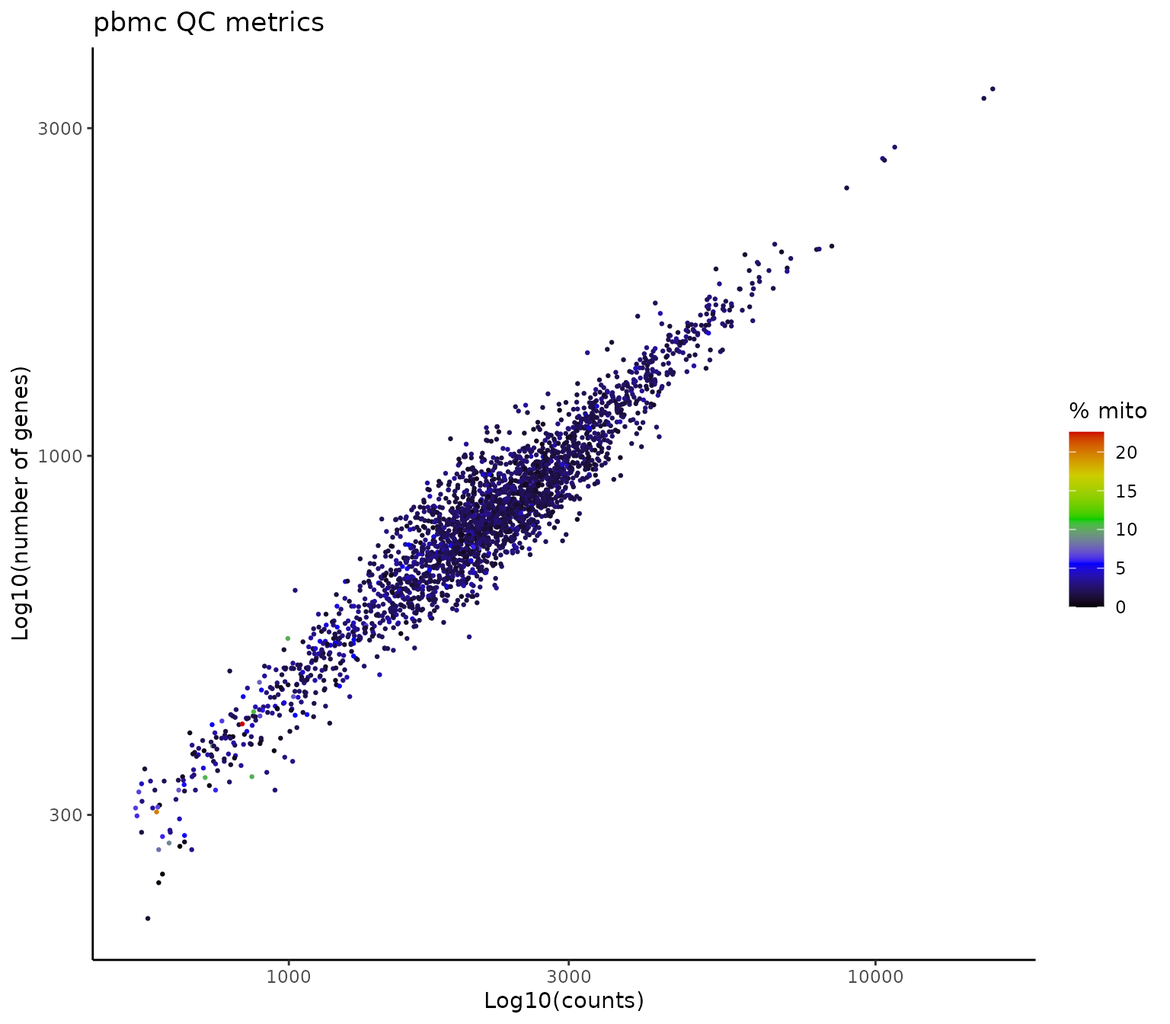
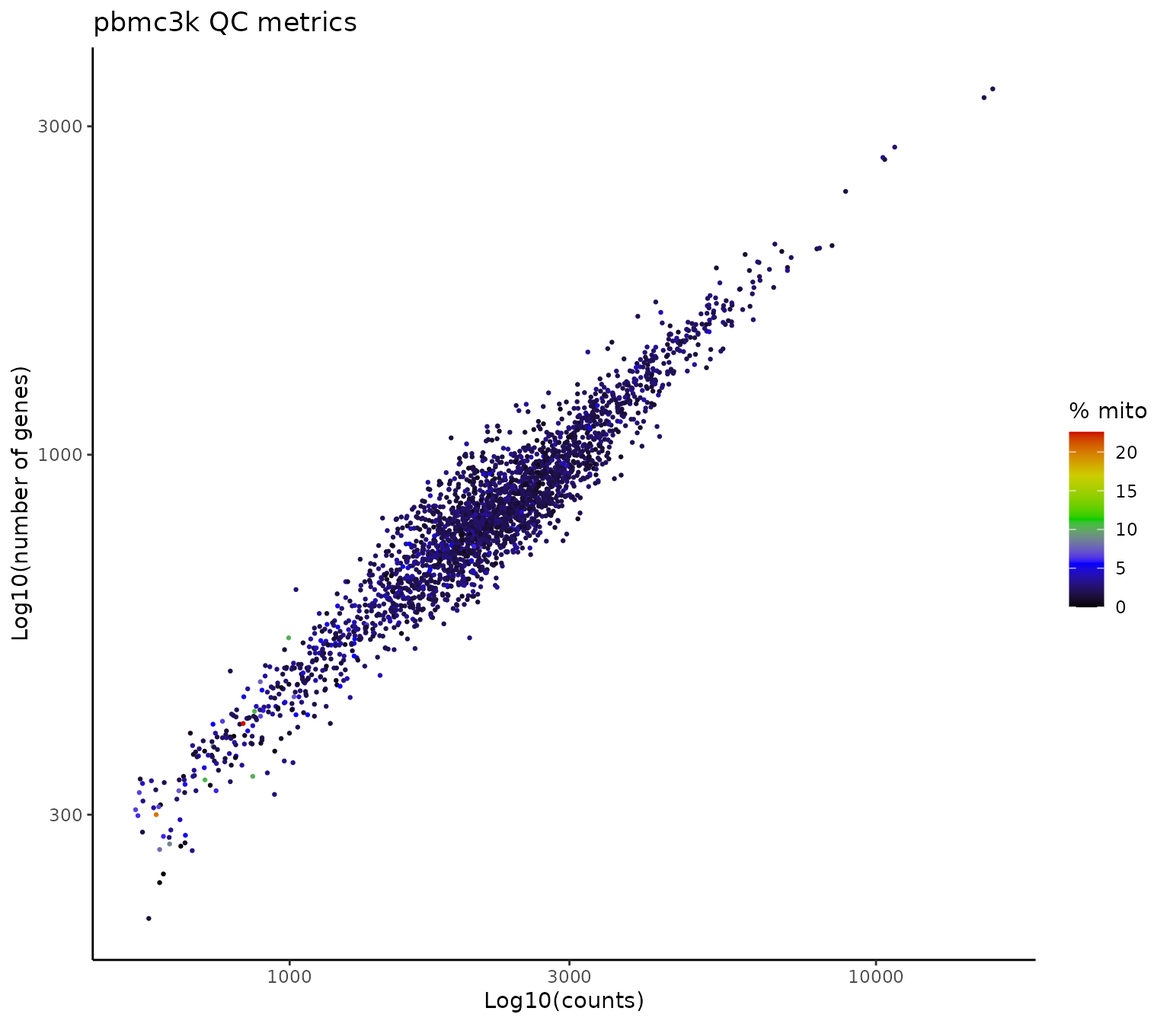
Deploying to gh-pages from @ Alexis-Varin/RightSeuratTools@49a8f704e3d8e158daaca0a54b2cf04fc4eb7c46 🚀

diff --git a/articles/RightSeuratTools.html b/articles/RightSeuratTools.html
@@ -128,9 +128,11 @@ which handles all data preparation for us, and check its contents:</p>
 <span><span class="co"># Checking the contents of the object</span></span>
 <span><span class="va">pbmc3k</span></span>
 <span><span class="fu"><a href="https://rdrr.io/r/base/colnames.html" class="external-link">colnames</a></span><span class="op">(</span><span class="va">pbmc3k</span><span class="op">@</span><span class="va">meta.data</span><span class="op">)</span></span></code></pre></div>
+<pre><code><span><span class="co">#&gt; Available datasets:</span></span>
+<span><span class="co">#&gt; <span style="color: #00BBBB;">"pbmc3k"</span>   a Seurat v4 object of 2700 cells by 13714 features</span></span></code></pre>
 <pre><code><span><span class="co">#&gt; An object of class Seurat </span></span>
-<span><span class="co">#&gt; 16634 features across 2700 samples within 1 assay </span></span>
-<span><span class="co">#&gt; Active assay: RNA (16634 features, 0 variable features)</span></span>
+<span><span class="co">#&gt; 13714 features across 2700 samples within 1 assay </span></span>
+<span><span class="co">#&gt; Active assay: RNA (13714 features, 0 variable features)</span></span>
 <span><span class="co">#&gt;  2 layers present: counts, data</span></span></code></pre>
 <pre><code><span><span class="co">#&gt; [1] "orig.ident"         "nCount_RNA"         "nFeature_RNA"      </span></span>
 <span><span class="co">#&gt; [4] "seurat_annotations"</span></span></code></pre>
@@ -144,16 +146,16 @@ the counts layer from the RNA assay. We will also remove all meta.data
 columns except for the ‘orig.ident’ metadata to truly start anew. <a href="https://alexis-varin.github.io/RightSeuratTools/reference/Right_DietSeurat.html">Right_DietSeurat</a>
 is highly customizable, check the documentation for more
 information:</p>
-<div class="sourceCode" id="cb7"><pre class="downlit sourceCode r">
+<div class="sourceCode" id="cb8"><pre class="downlit sourceCode r">
 <code class="sourceCode R"><span><span class="co"># Reducing the object to the counts layer and the 'orig.ident' metadata</span></span>
-<span><span class="va">pbmc</span> <span class="op">&lt;-</span> <span class="fu"><a href="../reference/Right_DietSeurat.html">Right_DietSeurat</a></span><span class="op">(</span><span class="va">pbmc3k</span>, idents <span class="op">=</span> <span class="st">"orig.ident"</span><span class="op">)</span></span>
+<span><span class="va">pbmc3k</span> <span class="op">&lt;-</span> <span class="fu"><a href="../reference/Right_DietSeurat.html">Right_DietSeurat</a></span><span class="op">(</span><span class="va">pbmc3k</span>, idents <span class="op">=</span> <span class="st">"orig.ident"</span><span class="op">)</span></span>
 <span></span>
 <span><span class="co"># Checking the contents of the object</span></span>
-<span><span class="va">pbmc</span></span>
-<span><span class="fu"><a href="https://rdrr.io/r/base/colnames.html" class="external-link">colnames</a></span><span class="op">(</span><span class="va">pbmc</span><span class="op">@</span><span class="va">meta.data</span><span class="op">)</span></span></code></pre></div>
+<span><span class="va">pbmc3k</span></span>
+<span><span class="fu"><a href="https://rdrr.io/r/base/colnames.html" class="external-link">colnames</a></span><span class="op">(</span><span class="va">pbmc3k</span><span class="op">@</span><span class="va">meta.data</span><span class="op">)</span></span></code></pre></div>
 <pre><code><span><span class="co">#&gt; An object of class Seurat </span></span>
-<span><span class="co">#&gt; 16634 features across 2700 samples within 1 assay </span></span>
-<span><span class="co">#&gt; Active assay: RNA (16634 features, 0 variable features)</span></span>
+<span><span class="co">#&gt; 13714 features across 2700 samples within 1 assay </span></span>
+<span><span class="co">#&gt; Active assay: RNA (13714 features, 0 variable features)</span></span>
 <span><span class="co">#&gt;  1 layer present: counts</span></span></code></pre>
 <pre><code><span><span class="co">#&gt; [1] "orig.ident"   "nCount_RNA"   "nFeature_RNA"</span></span></code></pre>
 </div>
@@ -166,15 +168,15 @@ information:</p>
 <p>We will now move on to preprocessing. We start by calculating the
 percentage of mitochondrial genes and plot these results alongside the
 number of genes (nFeature_RNA) and counts (nCount_RNA) per cell:</p>
-<div class="sourceCode" id="cb10"><pre class="downlit sourceCode r">
+<div class="sourceCode" id="cb11"><pre class="downlit sourceCode r">
 <code class="sourceCode R"><span><span class="co"># Calculate percentage of mitochondrial genes</span></span>
-<span><span class="va">pbmc</span><span class="op">[[</span><span class="st">"percent.mt"</span><span class="op">]</span><span class="op">]</span> <span class="op">&lt;-</span> <span class="fu"><a href="https://satijalab.org/seurat/reference/PercentageFeatureSet.html" class="external-link">PercentageFeatureSet</a></span><span class="op">(</span><span class="va">pbmc</span>, pattern <span class="op">=</span> <span class="st">"^MT-"</span><span class="op">)</span></span>
+<span><span class="va">pbmc3k</span><span class="op">[[</span><span class="st">"percent.mt"</span><span class="op">]</span><span class="op">]</span> <span class="op">&lt;-</span> <span class="fu"><a href="https://satijalab.org/seurat/reference/PercentageFeatureSet.html" class="external-link">PercentageFeatureSet</a></span><span class="op">(</span><span class="va">pbmc3k</span>, pattern <span class="op">=</span> <span class="st">"^MT-"</span><span class="op">)</span></span>
 <span></span>
 <span><span class="co"># Plot QC</span></span>
-<span><span class="fu"><a href="https://ggplot2.tidyverse.org/reference/ggplot.html" class="external-link">ggplot</a></span><span class="op">(</span><span class="va">pbmc</span><span class="op">@</span><span class="va">meta.data</span>, <span class="fu"><a href="https://ggplot2.tidyverse.org/reference/aes.html" class="external-link">aes</a></span><span class="op">(</span>x <span class="op">=</span> <span class="va">nCount_RNA</span>, y <span class="op">=</span> <span class="va">nFeature_RNA</span>, col <span class="op">=</span> <span class="va">percent.mt</span><span class="op">)</span><span class="op">)</span> <span class="op">+</span> </span>
+<span><span class="fu"><a href="https://ggplot2.tidyverse.org/reference/ggplot.html" class="external-link">ggplot</a></span><span class="op">(</span><span class="va">pbmc3k</span><span class="op">@</span><span class="va">meta.data</span>, <span class="fu"><a href="https://ggplot2.tidyverse.org/reference/aes.html" class="external-link">aes</a></span><span class="op">(</span>x <span class="op">=</span> <span class="va">nCount_RNA</span>, y <span class="op">=</span> <span class="va">nFeature_RNA</span>, col <span class="op">=</span> <span class="va">percent.mt</span><span class="op">)</span><span class="op">)</span> <span class="op">+</span> </span>
 <span>  <span class="fu"><a href="https://ggplot2.tidyverse.org/reference/geom_point.html" class="external-link">geom_point</a></span><span class="op">(</span>size<span class="op">=</span><span class="fl">0.5</span><span class="op">)</span> <span class="op">+</span> </span>
 <span>  <span class="fu"><a href="https://ggplot2.tidyverse.org/reference/scale_gradient.html" class="external-link">scale_color_gradientn</a></span><span class="op">(</span>colors<span class="op">=</span><span class="fu"><a href="https://rdrr.io/r/base/c.html" class="external-link">c</a></span><span class="op">(</span><span class="st">"black"</span>,<span class="st">"blue"</span>,<span class="st">"green3"</span>,<span class="st">"yellow3"</span>,<span class="st">"red3"</span><span class="op">)</span><span class="op">)</span> <span class="op">+</span></span>
-<span>  <span class="fu"><a href="https://ggplot2.tidyverse.org/reference/labs.html" class="external-link">ggtitle</a></span><span class="op">(</span><span class="st">"pbmc QC metrics"</span><span class="op">)</span> <span class="op">+</span></span>
+<span>  <span class="fu"><a href="https://ggplot2.tidyverse.org/reference/labs.html" class="external-link">ggtitle</a></span><span class="op">(</span><span class="st">"pbmc3k QC metrics"</span><span class="op">)</span> <span class="op">+</span></span>
 <span>  <span class="fu"><a href="https://ggplot2.tidyverse.org/reference/labs.html" class="external-link">labs</a></span><span class="op">(</span>x <span class="op">=</span> <span class="st">"Log10(counts)"</span>, y <span class="op">=</span> <span class="st">"Log10(number of genes)"</span>, col <span class="op">=</span> <span class="st">"% mito"</span><span class="op">)</span> <span class="op">+</span></span>
 <span>  <span class="fu"><a href="https://ggplot2.tidyverse.org/reference/scale_continuous.html" class="external-link">scale_y_log10</a></span><span class="op">(</span><span class="op">)</span> <span class="op">+</span></span>
 <span>  <span class="fu"><a href="https://ggplot2.tidyverse.org/reference/scale_continuous.html" class="external-link">scale_x_log10</a></span><span class="op">(</span><span class="op">)</span> <span class="op">+</span></span>
@@ -187,17 +189,17 @@ number of genes (nFeature_RNA) and counts (nCount_RNA) per cell:</p>
 <p>Based on the plot above, we will filter out cells with more than 10%
 mitochondrial genes as well as cells with less than 400 or more than
 2500 genes:</p>
-<div class="sourceCode" id="cb11"><pre class="downlit sourceCode r">
+<div class="sourceCode" id="cb12"><pre class="downlit sourceCode r">
 <code class="sourceCode R"><span><span class="co"># Filter cells</span></span>
-<span><span class="va">pbmc</span> <span class="op">&lt;-</span> <span class="fu"><a href="https://rdrr.io/r/base/subset.html" class="external-link">subset</a></span><span class="op">(</span><span class="va">pbmc</span>, subset <span class="op">=</span> <span class="va">nFeature_RNA</span> <span class="op">&gt;</span> <span class="fl">400</span> <span class="op">&amp;</span></span>
+<span><span class="va">pbmc3k</span> <span class="op">&lt;-</span> <span class="fu"><a href="https://rdrr.io/r/base/subset.html" class="external-link">subset</a></span><span class="op">(</span><span class="va">pbmc3k</span>, subset <span class="op">=</span> <span class="va">nFeature_RNA</span> <span class="op">&gt;</span> <span class="fl">400</span> <span class="op">&amp;</span></span>
 <span>                              <span class="va">nFeature_RNA</span> <span class="op">&lt;</span> <span class="fl">2500</span> <span class="op">&amp;</span></span>
 <span>                              <span class="va">percent.mt</span> <span class="op">&lt;</span> <span class="fl">10</span><span class="op">)</span></span>
 <span></span>
 <span><span class="co"># Checking the contents of the object</span></span>
-<span><span class="va">pbmc</span></span></code></pre></div>
+<span><span class="va">pbmc3k</span></span></code></pre></div>
 <pre><code><span><span class="co">#&gt; An object of class Seurat </span></span>
-<span><span class="co">#&gt; 16634 features across 2595 samples within 1 assay </span></span>
-<span><span class="co">#&gt; Active assay: RNA (16634 features, 0 variable features)</span></span>
+<span><span class="co">#&gt; 13714 features across 2595 samples within 1 assay </span></span>
+<span><span class="co">#&gt; Active assay: RNA (13714 features, 0 variable features)</span></span>
 <span><span class="co">#&gt;  1 layer present: counts</span></span></code></pre>
 </div>
 <div class="section level3">
@@ -207,15 +209,15 @@ mitochondrial genes as well as cells with less than 400 or more than
 step, which is normalizing, scaling the data and identifying highly
 variable genes. For convenience, we use the same parameters as in the
 <code>Seurat</code> tutorial:</p>
-<div class="sourceCode" id="cb13"><pre class="downlit sourceCode r">
+<div class="sourceCode" id="cb14"><pre class="downlit sourceCode r">
 <code class="sourceCode R"><span><span class="co"># Normalizing the data with default parameters</span></span>
-<span><span class="va">pbmc</span> <span class="op">&lt;-</span> <span class="fu"><a href="https://satijalab.org/seurat/reference/NormalizeData.html" class="external-link">NormalizeData</a></span><span class="op">(</span><span class="va">pbmc</span><span class="op">)</span></span>
+<span><span class="va">pbmc3k</span> <span class="op">&lt;-</span> <span class="fu"><a href="https://satijalab.org/seurat/reference/NormalizeData.html" class="external-link">NormalizeData</a></span><span class="op">(</span><span class="va">pbmc3k</span><span class="op">)</span></span>
 <span></span>
 <span><span class="co"># Find highly variable genes with default parameters</span></span>
-<span><span class="va">pbmc</span> <span class="op">&lt;-</span> <span class="fu"><a href="https://satijalab.org/seurat/reference/FindVariableFeatures.html" class="external-link">FindVariableFeatures</a></span><span class="op">(</span><span class="va">pbmc</span><span class="op">)</span></span>
+<span><span class="va">pbmc3k</span> <span class="op">&lt;-</span> <span class="fu"><a href="https://satijalab.org/seurat/reference/FindVariableFeatures.html" class="external-link">FindVariableFeatures</a></span><span class="op">(</span><span class="va">pbmc3k</span><span class="op">)</span></span>
 <span></span>
 <span><span class="co"># Scaling all genes, by default it only scales the variable features</span></span>
-<span><span class="va">pbmc</span> <span class="op">&lt;-</span> <span class="fu"><a href="https://satijalab.org/seurat/reference/ScaleData.html" class="external-link">ScaleData</a></span><span class="op">(</span><span class="va">pbmc</span>, features <span class="op">=</span> <span class="fu"><a href="https://rdrr.io/r/base/colnames.html" class="external-link">rownames</a></span><span class="op">(</span><span class="va">pbmc</span><span class="op">)</span><span class="op">)</span></span></code></pre></div>
+<span><span class="va">pbmc3k</span> <span class="op">&lt;-</span> <span class="fu"><a href="https://satijalab.org/seurat/reference/ScaleData.html" class="external-link">ScaleData</a></span><span class="op">(</span><span class="va">pbmc3k</span>, features <span class="op">=</span> <span class="fu"><a href="https://rdrr.io/r/base/colnames.html" class="external-link">rownames</a></span><span class="op">(</span><span class="va">pbmc3k</span><span class="op">)</span><span class="op">)</span></span></code></pre></div>
 </div>
 <div class="section level3">
 <h3 id="dimensionality-reduction">Dimensionality reduction<a class="anchor" aria-label="anchor" href="#dimensionality-reduction"></a>
@@ -223,21 +225,21 @@ variable genes. For convenience, we use the same parameters as in the
 <p>Next, we will perform dimensionality reduction and unsupervised
 clustering. We again use the same parameters as in the
 <code>Seurat</code> tutorial:</p>
-<div class="sourceCode" id="cb14"><pre class="downlit sourceCode r">
+<div class="sourceCode" id="cb15"><pre class="downlit sourceCode r">
 <code class="sourceCode R"><span><span class="co"># Perform PCA</span></span>
-<span><span class="va">pbmc</span> <span class="op">&lt;-</span> <span class="fu"><a href="https://satijalab.org/seurat/reference/RunPCA.html" class="external-link">RunPCA</a></span><span class="op">(</span><span class="va">pbmc</span><span class="op">)</span></span>
+<span><span class="va">pbmc3k</span> <span class="op">&lt;-</span> <span class="fu"><a href="https://satijalab.org/seurat/reference/RunPCA.html" class="external-link">RunPCA</a></span><span class="op">(</span><span class="va">pbmc3k</span><span class="op">)</span></span>
 <span></span>
 <span><span class="co"># Clustering</span></span>
-<span><span class="va">pbmc</span> <span class="op">&lt;-</span> <span class="fu"><a href="https://satijalab.org/seurat/reference/FindNeighbors.html" class="external-link">FindNeighbors</a></span><span class="op">(</span><span class="va">pbmc</span>, dims <span class="op">=</span> <span class="fl">1</span><span class="op">:</span><span class="fl">10</span><span class="op">)</span></span>
-<span><span class="va">pbmc</span> <span class="op">&lt;-</span> <span class="fu"><a href="https://satijalab.org/seurat/reference/FindClusters.html" class="external-link">FindClusters</a></span><span class="op">(</span><span class="va">pbmc</span>, resolution <span class="op">=</span> <span class="fl">0.5</span><span class="op">)</span></span>
+<span><span class="va">pbmc3k</span> <span class="op">&lt;-</span> <span class="fu"><a href="https://satijalab.org/seurat/reference/FindNeighbors.html" class="external-link">FindNeighbors</a></span><span class="op">(</span><span class="va">pbmc3k</span>, dims <span class="op">=</span> <span class="fl">1</span><span class="op">:</span><span class="fl">10</span><span class="op">)</span></span>
+<span><span class="va">pbmc3k</span> <span class="op">&lt;-</span> <span class="fu"><a href="https://satijalab.org/seurat/reference/FindClusters.html" class="external-link">FindClusters</a></span><span class="op">(</span><span class="va">pbmc3k</span>, resolution <span class="op">=</span> <span class="fl">0.5</span><span class="op">)</span></span>
 <span></span>
 <span><span class="co"># UMAP</span></span>
-<span><span class="va">pbmc</span> <span class="op">&lt;-</span> <span class="fu"><a href="https://satijalab.org/seurat/reference/RunUMAP.html" class="external-link">RunUMAP</a></span><span class="op">(</span><span class="va">pbmc</span>, dims <span class="op">=</span> <span class="fl">1</span><span class="op">:</span><span class="fl">10</span><span class="op">)</span></span></code></pre></div>
+<span><span class="va">pbmc3k</span> <span class="op">&lt;-</span> <span class="fu"><a href="https://satijalab.org/seurat/reference/RunUMAP.html" class="external-link">RunUMAP</a></span><span class="op">(</span><span class="va">pbmc3k</span>, dims <span class="op">=</span> <span class="fl">1</span><span class="op">:</span><span class="fl">10</span><span class="op">)</span></span></code></pre></div>
 <p>Finally, we will plot the UMAP, which concludes the preprocessing
 steps:</p>
-<div class="sourceCode" id="cb15"><pre class="downlit sourceCode r">
+<div class="sourceCode" id="cb16"><pre class="downlit sourceCode r">
 <code class="sourceCode R"><span><span class="co"># Plot UMAP</span></span>
-<span><span class="fu"><a href="https://satijalab.org/seurat/reference/DimPlot.html" class="external-link">DimPlot</a></span><span class="op">(</span><span class="va">pbmc</span>, reduction <span class="op">=</span> <span class="st">"umap"</span>, pt.size <span class="op">=</span> <span class="fl">0.5</span><span class="op">)</span></span></code></pre></div>
+<span><span class="fu"><a href="https://satijalab.org/seurat/reference/DimPlot.html" class="external-link">DimPlot</a></span><span class="op">(</span><span class="va">pbmc3k</span><span class="op">)</span></span></code></pre></div>
 <p><img src="RightSeuratTools_files/figure-html/umap-1.png" width="768" style="display: block; margin: auto;"></p>
 <p>Interestingly, compared to the <code>Seurat</code> tutorial, we are
 missing the platelet cluster, which is likely due to the fact that we
@@ -269,16 +271,13 @@ mitochondrial, ribosomal and non-coding genes excluded, in order to
 maximize the chances of finding canonical markers in an unsupervised
 manner. It also provides many more parameters which can be used to
 tailor the function to your specific needs:</p>
-<div class="sourceCode" id="cb16"><pre class="downlit sourceCode r">
-<code class="sourceCode R"><span><span class="co"># Find markers</span></span>
-<span><span class="va">annotation.markers</span> <span class="op">&lt;-</span> <span class="fu"><a href="../reference/Find_Annotation_Markers.html">Find_Annotation_Markers</a></span><span class="op">(</span><span class="va">pbmc</span><span class="op">)</span></span>
+<div class="sourceCode" id="cb17"><pre class="downlit sourceCode r">
+<code class="sourceCode R"><span><span class="co"># Top 5 markers for each cluster, we will name each marker with cluster identity</span></span>
+<span><span class="va">annotation.markers</span> <span class="op">&lt;-</span> <span class="fu"><a href="../reference/Find_Annotation_Markers.html">Find_Annotation_Markers</a></span><span class="op">(</span><span class="va">pbmc3k</span>,</span>
+<span>                                              name.features <span class="op">=</span> <span class="cn">TRUE</span><span class="op">)</span></span>
 <span></span>
-<span><span class="co"># Display markers for each cluster, only for visualization in the vignette</span></span>
-<span><span class="va">j</span> <span class="op">=</span> <span class="fl">1</span></span>
-<span><span class="kw">for</span> <span class="op">(</span><span class="va">i</span> <span class="kw">in</span> <span class="fl">1</span><span class="op">:</span><span class="fu"><a href="https://rdrr.io/r/base/length.html" class="external-link">length</a></span><span class="op">(</span><span class="fu"><a href="https://rdrr.io/r/base/levels.html" class="external-link">levels</a></span><span class="op">(</span><span class="fu"><a href="https://mojaveazure.github.io/seurat-object/reference/Idents.html" class="external-link">Idents</a></span><span class="op">(</span><span class="va">pbmc</span><span class="op">)</span><span class="op">)</span><span class="op">)</span><span class="op">)</span> <span class="op">{</span></span>
-<span>  <span class="fu"><a href="https://rdrr.io/r/base/cat.html" class="external-link">cat</a></span><span class="op">(</span><span class="st">"Cluster"</span>, <span class="va">i</span><span class="op">-</span><span class="fl">1</span>, <span class="st">":"</span>, <span class="va">annotation.markers</span><span class="op">[</span><span class="va">j</span><span class="op">:</span><span class="op">(</span><span class="va">j</span><span class="op">+</span><span class="fl">4</span><span class="op">)</span><span class="op">]</span>,<span class="st">"\n"</span><span class="op">)</span></span>
-<span>  <span class="va">j</span> <span class="op">=</span> <span class="va">j</span> <span class="op">+</span> <span class="fl">5</span></span>
-<span><span class="op">}</span></span></code></pre></div>
+<span><span class="co"># Display markers for each cluster</span></span>
+<span><span class="va">annotation.markers</span></span></code></pre></div>
 <pre><code><span><span class="co">#&gt; Finding markers for cluster 0 against all other clusters</span></span>
 <span><span class="co">#&gt; Finding markers for cluster 1 against all other clusters</span></span>
 <span><span class="co">#&gt; Finding markers for cluster 2 against all other clusters</span></span>
@@ -287,30 +286,29 @@ tailor the function to your specific needs:</p>
 <span><span class="co">#&gt; Finding markers for cluster 5 against all other clusters</span></span>
 <span><span class="co">#&gt; Finding markers for cluster 6 against all other clusters</span></span>
 <span><span class="co">#&gt; Finding markers for cluster 7 against all other clusters</span></span></code></pre>
-<pre><code><span><span class="co">#&gt; Cluster 0 : CCR7 LEF1 MAL PIK3IP1 TCF7 </span></span>
-<span><span class="co">#&gt; Cluster 1 : FOLR3 S100A12 S100A8 S100A9 CD14 </span></span>
-<span><span class="co">#&gt; Cluster 2 : AQP3 CD40LG CD2 TRAT1 TRADD </span></span>
-<span><span class="co">#&gt; Cluster 3 : VPREB3 CD79A TCL1A FCRLA FCER2 </span></span>
-<span><span class="co">#&gt; Cluster 4 : GZMK GZMH CCL5 CD8A KLRG1 </span></span>
-<span><span class="co">#&gt; Cluster 5 : CKB CDKN1C MS4A4A HES4 BATF3 </span></span>
-<span><span class="co">#&gt; Cluster 6 : AKR1C3 GNLY GZMB SH2D1B SPON2 </span></span>
-<span><span class="co">#&gt; Cluster 7 : SERPINF1 FCER1A CLIC2 CLEC10A ENHO</span></span></code></pre>
+<pre><code><span><span class="co">#&gt;  [1] "CCR7"     "LEF1"     "MAL"      "PIK3IP1"  "TCF7"     "FOLR3"   </span></span>
+<span><span class="co">#&gt;  [7] "S100A12"  "S100A8"   "S100A9"   "CD14"     "AQP3"     "CD40LG"  </span></span>
+<span><span class="co">#&gt; [13] "CORO1B"   "CD2"      "TRAT1"    "VPREB3"   "CD79A"    "TCL1A"   </span></span>
+<span><span class="co">#&gt; [19] "FCRLA"    "FCER2"    "GZMK"     "GZMH"     "CCL5"     "CD8A"    </span></span>
+<span><span class="co">#&gt; [25] "KLRG1"    "CKB"      "CDKN1C"   "MS4A4A"   "HES4"     "BATF3"   </span></span>
+<span><span class="co">#&gt; [31] "AKR1C3"   "GNLY"     "GZMB"     "SH2D1B"   "SPON2"    "SERPINF1"</span></span>
+<span><span class="co">#&gt; [37] "FCER1A"   "CLIC2"    "ENHO"     "CLEC10A"</span></span></code></pre>
 <p>These markers may then be directly used for plotting. Since the
 <code>Seurat</code> tutorial uses <a href="https://satijalab.org/seurat/reference/doheatmap" class="external-link">DoHeatmap</a>,
 we will compare it to its equivalent in <code>RightSeuratTools</code>,
 <a href="https://alexis-varin.github.io/RightSeuratTools/reference/Cell_Heatmap.html">Cell_Heatmap</a>,
 which is reworked using <code>ComplexHeatmap</code> instead of
 <code>ggplot2</code>:</p>
-<div class="sourceCode" id="cb19"><pre class="downlit sourceCode r">
-<code class="sourceCode R"><span><span class="fu"><a href="../reference/Cell_Heatmap.html">Cell_Heatmap</a></span><span class="op">(</span><span class="va">pbmc</span>,</span>
+<div class="sourceCode" id="cb20"><pre class="downlit sourceCode r">
+<code class="sourceCode R"><span><span class="fu"><a href="../reference/Cell_Heatmap.html">Cell_Heatmap</a></span><span class="op">(</span><span class="va">pbmc3k</span>,</span>
 <span>             features <span class="op">=</span> <span class="va">annotation.markers</span>,</span>
 <span>             cluster.features <span class="op">=</span> <span class="cn">FALSE</span>,</span>
 <span>             show.idents.legend <span class="op">=</span> <span class="cn">FALSE</span><span class="op">)</span></span></code></pre></div>
 <p><img src="RightSeuratTools_files/figure-html/heatmap-1.png" width="768" style="display: block; margin: auto;"></p>
 <p>Let’s compare it to <code>Seurat</code>’s default heatmap
 function:</p>
-<div class="sourceCode" id="cb20"><pre class="downlit sourceCode r">
-<code class="sourceCode R"><span><span class="fu"><a href="https://satijalab.org/seurat/reference/DoHeatmap.html" class="external-link">DoHeatmap</a></span><span class="op">(</span><span class="va">pbmc</span>,</span>
+<div class="sourceCode" id="cb21"><pre class="downlit sourceCode r">
+<code class="sourceCode R"><span><span class="fu"><a href="https://satijalab.org/seurat/reference/DoHeatmap.html" class="external-link">DoHeatmap</a></span><span class="op">(</span><span class="va">pbmc3k</span>,</span>
 <span>          features <span class="op">=</span> <span class="va">annotation.markers</span><span class="op">)</span> <span class="op">+</span> </span>
 <span>  <span class="fu"><a href="https://satijalab.org/seurat/reference/SeuratTheme.html" class="external-link">NoLegend</a></span><span class="op">(</span><span class="op">)</span></span></code></pre></div>
 <p><img src="RightSeuratTools_files/figure-html/doheatmap-1.png" width="768" style="display: block; margin: auto;"></p>
@@ -325,19 +323,19 @@ identities by another metadata…</p>
 </h3>
 <p>We will now annotate each cluster with its corresponding cell type
 and display the UMAP:</p>
-<div class="sourceCode" id="cb21"><pre class="downlit sourceCode r">
+<div class="sourceCode" id="cb22"><pre class="downlit sourceCode r">
 <code class="sourceCode R"><span><span class="co"># Annotate clusters</span></span>
 <span><span class="va">new.cluster.ids</span> <span class="op">&lt;-</span> <span class="fu"><a href="https://rdrr.io/r/base/c.html" class="external-link">c</a></span><span class="op">(</span><span class="st">"Naive CD4 T"</span>, <span class="st">"CD14+ Mono"</span>, <span class="st">"Memory CD4 T"</span>,</span>
 <span>                     <span class="st">"B"</span>, <span class="st">"CD8 T"</span>, <span class="st">"FCGR3A+ Mono"</span>, <span class="st">"NK"</span>, <span class="st">"DC"</span><span class="op">)</span></span>
 <span></span>
-<span><span class="fu"><a href="https://rdrr.io/r/base/names.html" class="external-link">names</a></span><span class="op">(</span><span class="va">new.cluster.ids</span><span class="op">)</span> <span class="op">&lt;-</span> <span class="fu"><a href="https://rdrr.io/r/base/levels.html" class="external-link">levels</a></span><span class="op">(</span><span class="va">pbmc</span><span class="op">)</span></span>
-<span><span class="va">pbmc</span> <span class="op">&lt;-</span> <span class="fu"><a href="https://mojaveazure.github.io/seurat-object/reference/Idents.html" class="external-link">RenameIdents</a></span><span class="op">(</span><span class="va">pbmc</span>, <span class="va">new.cluster.ids</span><span class="op">)</span></span>
+<span><span class="fu"><a href="https://rdrr.io/r/base/names.html" class="external-link">names</a></span><span class="op">(</span><span class="va">new.cluster.ids</span><span class="op">)</span> <span class="op">&lt;-</span> <span class="fu"><a href="https://rdrr.io/r/base/levels.html" class="external-link">levels</a></span><span class="op">(</span><span class="va">pbmc3k</span><span class="op">)</span></span>
+<span><span class="va">pbmc3k</span> <span class="op">&lt;-</span> <span class="fu"><a href="https://mojaveazure.github.io/seurat-object/reference/Idents.html" class="external-link">RenameIdents</a></span><span class="op">(</span><span class="va">pbmc3k</span>, <span class="va">new.cluster.ids</span><span class="op">)</span></span>
 <span></span>
 <span><span class="co"># Add metadata to Seurat object</span></span>
-<span><span class="va">pbmc</span><span class="op">@</span><span class="va">meta.data</span><span class="op">$</span><span class="va">named_clusters</span> <span class="op">&lt;-</span> <span class="va">pbmc</span><span class="op">@</span><span class="va">active.ident</span></span>
+<span><span class="va">pbmc3k</span><span class="op">@</span><span class="va">meta.data</span><span class="op">$</span><span class="va">named_clusters</span> <span class="op">&lt;-</span> <span class="va">pbmc3k</span><span class="op">@</span><span class="va">active.ident</span></span>
 <span></span>
 <span><span class="co"># Plot UMAP with cell types</span></span>
-<span><span class="fu"><a href="https://satijalab.org/seurat/reference/DimPlot.html" class="external-link">DimPlot</a></span><span class="op">(</span><span class="va">pbmc</span>, reduction <span class="op">=</span> <span class="st">"umap"</span>, label <span class="op">=</span> <span class="cn">TRUE</span>, pt.size <span class="op">=</span> <span class="fl">0.5</span><span class="op">)</span> <span class="op">+</span></span>
+<span><span class="fu"><a href="https://satijalab.org/seurat/reference/DimPlot.html" class="external-link">DimPlot</a></span><span class="op">(</span><span class="va">pbmc3k</span>, reduction <span class="op">=</span> <span class="st">"umap"</span>, label <span class="op">=</span> <span class="cn">TRUE</span>, pt.size <span class="op">=</span> <span class="fl">0.5</span><span class="op">)</span> <span class="op">+</span></span>
 <span>  <span class="fu"><a href="https://satijalab.org/seurat/reference/SeuratTheme.html" class="external-link">NoLegend</a></span><span class="op">(</span><span class="op">)</span></span></code></pre></div>
 <p><img src="RightSeuratTools_files/figure-html/annotation-1.png" width="768" style="display: block; margin: auto;"></p>
 </div>
@@ -352,8 +350,8 @@ introduces <a href="https://alexis-varin.github.io/RightSeuratTools/reference/Ba
 which automates cell proportion and conveniently displays a bar plot,
 with the possibility to group and/or split based on other metadata, and
 many other parameters:</p>
-<div class="sourceCode" id="cb22"><pre class="downlit sourceCode r">
-<code class="sourceCode R"><span><span class="fu"><a href="../reference/Barplot_Cell_Proportion.html">Barplot_Cell_Proportion</a></span><span class="op">(</span><span class="va">pbmc</span>,</span>
+<div class="sourceCode" id="cb23"><pre class="downlit sourceCode r">
+<code class="sourceCode R"><span><span class="fu"><a href="../reference/Barplot_Cell_Proportion.html">Barplot_Cell_Proportion</a></span><span class="op">(</span><span class="va">pbmc3k</span>,</span>
 <span>                        percent <span class="op">=</span> <span class="cn">FALSE</span><span class="op">)</span></span></code></pre></div>
 <p><img src="RightSeuratTools_files/figure-html/proportion-1.png" width="576" style="display: block; margin: auto;"></p>
 </div>
@@ -367,10 +365,10 @@ and <a href="https://alexis-varin.github.io/RightSeuratTools/reference/Grid_VlnP
 which is a stacked version of <a href="https://satijalab.org/seurat/reference/vlnplot" class="external-link">VlnPlot</a> in a
 square grid, both also offering many more options than their
 <code>Seurat</code> counterparts:</p>
-<div class="sourceCode" id="cb23"><pre class="downlit sourceCode r">
+<div class="sourceCode" id="cb24"><pre class="downlit sourceCode r">
 <code class="sourceCode R"><span><span class="co"># We will disable some parameters to be as close as possible from Seurat's DotPlot</span></span>
 <span><span class="co"># Due to the number of features, we will also lower dots size and flip the axis</span></span>
-<span><span class="fu"><a href="../reference/DotPlot_Heatmap.html">DotPlot_Heatmap</a></span><span class="op">(</span><span class="va">pbmc</span>,</span>
+<span><span class="fu"><a href="../reference/DotPlot_Heatmap.html">DotPlot_Heatmap</a></span><span class="op">(</span><span class="va">pbmc3k</span>,</span>
 <span>                features <span class="op">=</span> <span class="va">annotation.markers</span>,</span>
 <span>                dots.size <span class="op">=</span> <span class="fl">2</span>,</span>
 <span>                cluster.features <span class="op">=</span> <span class="cn">FALSE</span>,</span>
@@ -378,15 +376,16 @@ square grid, both also offering many more options than their
 <span>                rotate.axis <span class="op">=</span> <span class="cn">TRUE</span><span class="op">)</span></span></code></pre></div>
 <p><img src="RightSeuratTools_files/figure-html/dotplot-1.png" width="768" style="display: block; margin: auto;"></p>
 <p>Comparing it to <code>Seurat</code>’s default dotplot function:</p>
-<div class="sourceCode" id="cb24"><pre class="downlit sourceCode r">
-<code class="sourceCode R"><span><span class="fu"><a href="https://satijalab.org/seurat/reference/DotPlot.html" class="external-link">DotPlot</a></span><span class="op">(</span><span class="va">pbmc</span>,</span>
-<span>        features <span class="op">=</span> <span class="va">annotation.markers</span><span class="op">)</span> <span class="op">+</span> </span>
+<div class="sourceCode" id="cb25"><pre class="downlit sourceCode r">
+<code class="sourceCode R"><span><span class="co"># Seurat's DotPlot function does not work well with named features, we will remove names</span></span>
+<span><span class="fu"><a href="https://satijalab.org/seurat/reference/DotPlot.html" class="external-link">DotPlot</a></span><span class="op">(</span><span class="va">pbmc3k</span>,</span>
+<span>        features <span class="op">=</span> <span class="fu"><a href="https://rdrr.io/r/base/unname.html" class="external-link">unname</a></span><span class="op">(</span><span class="va">annotation.markers</span><span class="op">)</span><span class="op">)</span> <span class="op">+</span> </span>
 <span>  <span class="fu"><a href="https://satijalab.org/seurat/reference/SeuratTheme.html" class="external-link">RotatedAxis</a></span><span class="op">(</span><span class="op">)</span> <span class="op">+</span> </span>
 <span>  <span class="fu"><a href="https://ggplot2.tidyverse.org/reference/coord_flip.html" class="external-link">coord_flip</a></span><span class="op">(</span><span class="op">)</span></span></code></pre></div>
 <p><img src="RightSeuratTools_files/figure-html/dotplot_seurat_display-1.png" width="768" style="display: block; margin: auto;"></p>
 <p>And finally, the grid violin plot:</p>
-<div class="sourceCode" id="cb25"><pre class="downlit sourceCode r">
-<code class="sourceCode R"><span><span class="fu"><a href="../reference/Grid_VlnPlot.html">Grid_VlnPlot</a></span><span class="op">(</span><span class="va">pbmc</span>,</span>
+<div class="sourceCode" id="cb26"><pre class="downlit sourceCode r">
+<code class="sourceCode R"><span><span class="fu"><a href="../reference/Grid_VlnPlot.html">Grid_VlnPlot</a></span><span class="op">(</span><span class="va">pbmc3k</span>,</span>
 <span>             features <span class="op">=</span> <span class="va">annotation.markers</span><span class="op">)</span></span></code></pre></div>
 <p><img src="RightSeuratTools_files/figure-html/grid_vln-1.png" width="768" style="display: block; margin: auto;"></p>
 </div>

diff --git a/reference/Find_Annotation_Markers.html b/reference/Find_Annotation_Markers.html
@@ -67,6 +67,7 @@
 <span>  species <span class="op">=</span> <span class="st">"human"</span>,</span>
 <span>  parallelized <span class="op">=</span> <span class="cn">FALSE</span>,</span>
 <span>  BPPARAM <span class="op">=</span> <span class="cn">NULL</span>,</span>
+<span>  name.features <span class="op">=</span> <span class="cn">FALSE</span>,</span>
 <span>  output.df <span class="op">=</span> <span class="cn">FALSE</span>,</span>
 <span>  output.list <span class="op">=</span> <span class="cn">FALSE</span>,</span>
 <span>  verbose <span class="op">=</span> <span class="cn">TRUE</span>,</span>
@@ -126,6 +127,10 @@
 <dd><p>A <code><a href="https://rdrr.io/pkg/BiocParallel/man/BiocParallelParam-class.html" class="external-link">BiocParallelParam</a></code> object to be used for parallelization. If <code>NULL</code>, the function will set this parameter to <code><a href="https://rdrr.io/pkg/BiocParallel/man/SerialParam-class.html" class="external-link">SerialParam</a></code>, which uses a single worker (core) and is therefore not parallelized, in order to prevent accidental use of large computation resources. Ignored if <code>parallelized</code> = <code>FALSE</code>.</p></dd>
 
 
+<dt id="arg-name-features">name.features<a class="anchor" aria-label="anchor" href="#arg-name-features"></a></dt>
+<dd><p>Logical. If <code>TRUE</code>, and if <code>output.df</code> and <code>output.list</code> are <code>FALSE</code>, each feature will be named with the corresponding cluster identity.</p></dd>
+
+
 <dt id="arg-output-df">output.df<a class="anchor" aria-label="anchor" href="#arg-output-df"></a></dt>
 <dd><p>Logical. If <code>TRUE</code>, a data frame of features names and associated statistics will be returned. If <code>FALSE</code>, a character vector of features names will be returned.</p></dd>
 
@@ -162,10 +167,8 @@
 <span class="r-out co"><span class="r-pr">#&gt;</span> Finding markers for cluster FCGR3A+ Mono against all other clusters</span>
 <span class="r-out co"><span class="r-pr">#&gt;</span> Finding markers for cluster NK against all other clusters</span>
 <span class="r-out co"><span class="r-pr">#&gt;</span> Finding markers for cluster DC against all other clusters</span>
-<span class="r-out co"><span class="r-pr">#&gt;</span> Finding markers for cluster Platelet against all other clusters</span>
 <span class="r-in"><span><span class="fu"><a href="https://rdrr.io/r/utils/head.html" class="external-link">head</a></span><span class="op">(</span><span class="va">pbmc3k.markers</span><span class="op">)</span></span></span>
-<span class="r-out co"><span class="r-pr">#&gt;</span>  Naive CD4 T  Naive CD4 T  Naive CD4 T  Naive CD4 T  Naive CD4 T Memory CD4 T </span>
-<span class="r-out co"><span class="r-pr">#&gt;</span>       "CCR7"       "LEF1"        "MAL"    "PIK3IP1"       "TCF7"       "AQP3" </span>
+<span class="r-out co"><span class="r-pr">#&gt;</span> [1] "CCR7"    "LEF1"    "MAL"     "PIK3IP1" "TCF7"    "AQP3"   </span>
 <span class="r-in"><span></span></span>
 <span class="r-in"><span><span class="co"># Example 2: parallelized FindAllMarkers</span></span></span>
 <span class="r-in"><span><span class="va">BPPARAM</span> <span class="op">&lt;-</span> <span class="fu">BiocParallel</span><span class="fu">::</span><span class="fu"><a href="https://rdrr.io/pkg/BiocParallel/man/register.html" class="external-link">registered</a></span><span class="op">(</span><span class="op">)</span><span class="op">[[</span><span class="fl">1</span><span class="op">]</span><span class="op">]</span></span></span>
@@ -180,23 +183,22 @@
 <span class="r-in"><span>                                          parallelized <span class="op">=</span> <span class="cn">TRUE</span>,</span></span>
 <span class="r-in"><span>                                          BPPARAM <span class="op">=</span> <span class="va">BPPARAM</span>,</span></span>
 <span class="r-in"><span>                                          output.df <span class="op">=</span> <span class="cn">TRUE</span><span class="op">)</span></span></span>
-<span class="r-msg co"><span class="r-pr">#&gt;</span> Finding markers for cluster FCGR3A+ Mono against all other clusters</span>
-<span class="r-msg co"><span class="r-pr">#&gt;</span> Finding markers for cluster NK against all other clusters</span>
-<span class="r-msg co"><span class="r-pr">#&gt;</span> Finding markers for cluster DC against all other clusters</span>
-<span class="r-msg co"><span class="r-pr">#&gt;</span> Finding markers for cluster Platelet against all other clusters</span>
 <span class="r-msg co"><span class="r-pr">#&gt;</span> Finding markers for cluster Naive CD4 T against all other clusters</span>
 <span class="r-msg co"><span class="r-pr">#&gt;</span> Finding markers for cluster Memory CD4 T against all other clusters</span>
 <span class="r-msg co"><span class="r-pr">#&gt;</span> Finding markers for cluster CD14+ Mono against all other clusters</span>
 <span class="r-msg co"><span class="r-pr">#&gt;</span> Finding markers for cluster B against all other clusters</span>
 <span class="r-msg co"><span class="r-pr">#&gt;</span> Finding markers for cluster CD8 T against all other clusters</span>
+<span class="r-msg co"><span class="r-pr">#&gt;</span> Finding markers for cluster FCGR3A+ Mono against all other clusters</span>
+<span class="r-msg co"><span class="r-pr">#&gt;</span> Finding markers for cluster NK against all other clusters</span>
+<span class="r-msg co"><span class="r-pr">#&gt;</span> Finding markers for cluster DC against all other clusters</span>
 <span class="r-in"><span><span class="fu"><a href="https://rdrr.io/r/utils/head.html" class="external-link">head</a></span><span class="op">(</span><span class="va">pbmc3k.markers</span><span class="op">)</span></span></span>
 <span class="r-out co"><span class="r-pr">#&gt;</span>                p_val avg_log2FC pct.1 pct.2    p_val_adj     cluster feature</span>
-<span class="r-out co"><span class="r-pr">#&gt;</span> GTSCR1  1.775576e-08   7.160140 0.016 0.000 2.953493e-04 Naive CD4 T  GTSCR1</span>
-<span class="r-out co"><span class="r-pr">#&gt;</span> REG4    4.669320e-10   5.898509 0.022 0.000 7.766948e-06 Naive CD4 T    REG4</span>
-<span class="r-out co"><span class="r-pr">#&gt;</span> NOG     1.637607e-12   4.837083 0.034 0.002 2.723996e-08 Naive CD4 T     NOG</span>
-<span class="r-out co"><span class="r-pr">#&gt;</span> MMP28   1.780334e-07   4.377688 0.016 0.000 2.961408e-03 Naive CD4 T   MMP28</span>
-<span class="r-out co"><span class="r-pr">#&gt;</span> C2orf40 9.105216e-08   3.854181 0.020 0.001 1.514562e-03 Naive CD4 T C2orf40</span>
-<span class="r-out co"><span class="r-pr">#&gt;</span> ADTRP   9.636983e-23   2.926739 0.099 0.017 1.603016e-18 Naive CD4 T   ADTRP</span>
+<span class="r-out co"><span class="r-pr">#&gt;</span> GTSCR1  1.989750e-08   7.150823 0.016 0.000 2.728743e-04 Naive CD4 T  GTSCR1</span>
+<span class="r-out co"><span class="r-pr">#&gt;</span> REG4    5.397233e-10   5.889242 0.022 0.001 7.401765e-06 Naive CD4 T    REG4</span>
+<span class="r-out co"><span class="r-pr">#&gt;</span> NOG     2.006355e-12   4.827114 0.034 0.003 2.751516e-08 Naive CD4 T     NOG</span>
+<span class="r-out co"><span class="r-pr">#&gt;</span> MMP28   1.977007e-07   4.367551 0.016 0.001 2.711268e-03 Naive CD4 T   MMP28</span>
+<span class="r-out co"><span class="r-pr">#&gt;</span> C2orf40 1.025794e-07   3.843510 0.020 0.002 1.406773e-03 Naive CD4 T C2orf40</span>
+<span class="r-out co"><span class="r-pr">#&gt;</span> ADTRP   1.534399e-22   2.916404 0.099 0.017 2.104275e-18 Naive CD4 T   ADTRP</span>
 </code></pre></div>
     </div>
   </main><aside class="col-md-3"><nav id="toc" aria-label="Table of contents"><h2>On this page</h2>

diff --git a/reference/Right_Data.html b/reference/Right_Data.html
@@ -81,6 +81,11 @@
 <span class="r-out co"><span class="r-pr">#&gt;</span> <span style="color: #00BBBB;">"pbmc3k"</span>   a Seurat v4 object of 2700 cells by 13714 features</span>
 <span class="r-in"><span></span></span>
 <span class="r-in"><span><span class="va">pbmc3k</span> <span class="op">=</span> <span class="fu">Right_Data</span><span class="op">(</span><span class="st">"pbmc3k"</span><span class="op">)</span></span></span>
+<span class="r-in"><span><span class="va">pbmc3k</span></span></span>
+<span class="r-out co"><span class="r-pr">#&gt;</span> An object of class Seurat </span>
+<span class="r-out co"><span class="r-pr">#&gt;</span> 13714 features across 2700 samples within 1 assay </span>
+<span class="r-out co"><span class="r-pr">#&gt;</span> Active assay: RNA (13714 features, 0 variable features)</span>
+<span class="r-out co"><span class="r-pr">#&gt;</span>  2 layers present: counts, data</span>
 </code></pre></div>
     </div>
   </main><aside class="col-md-3"><nav id="toc" aria-label="Table of contents"><h2>On this page</h2>
